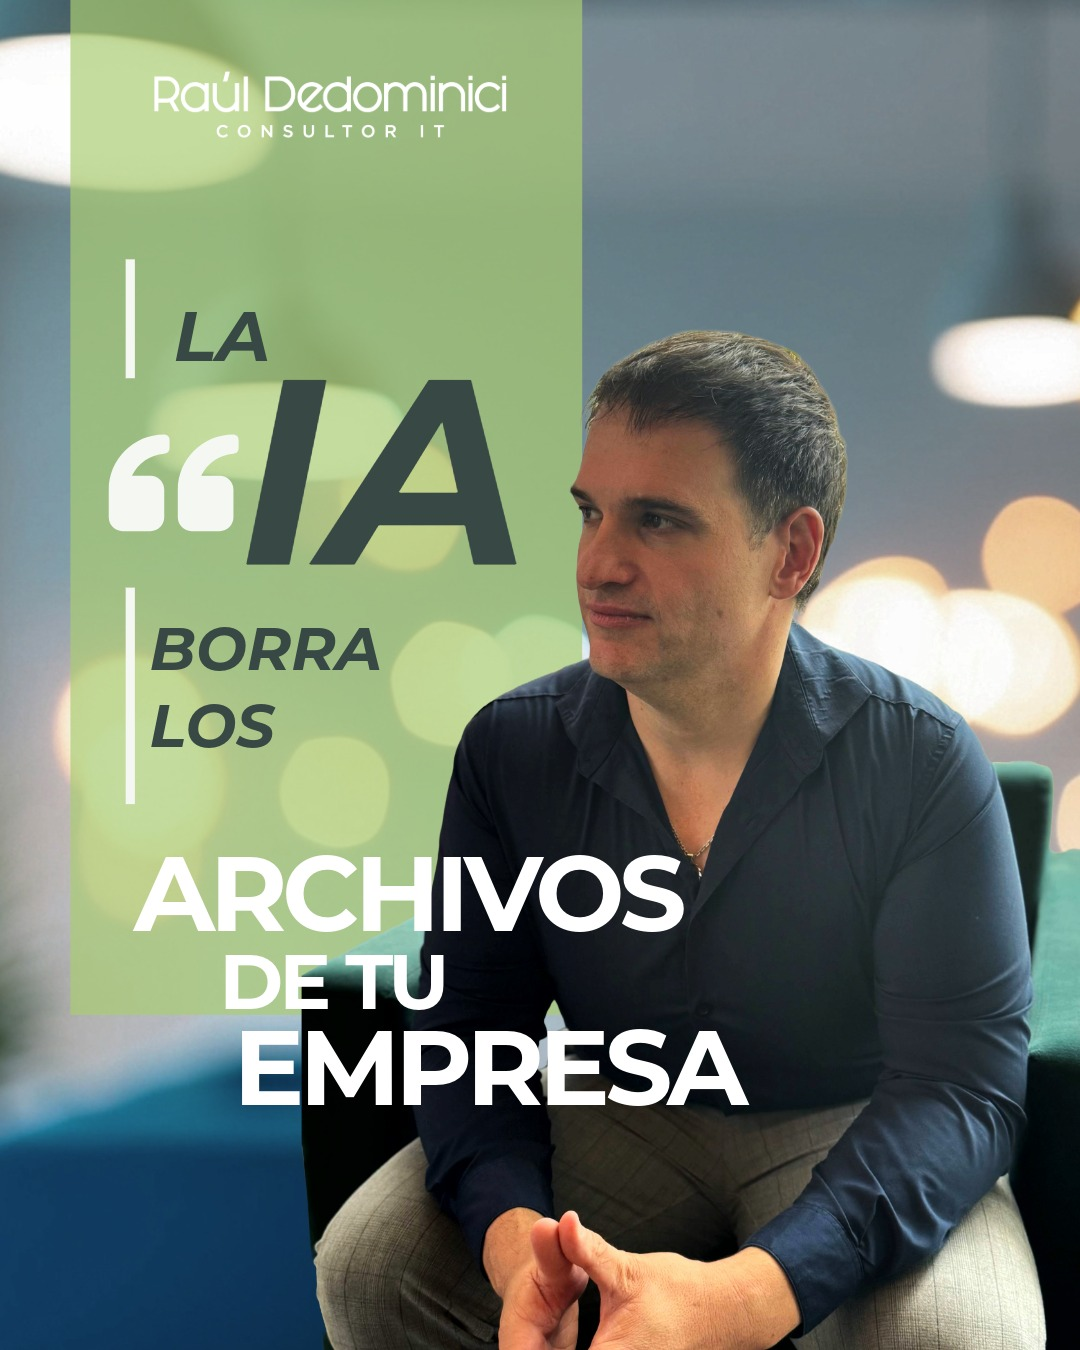
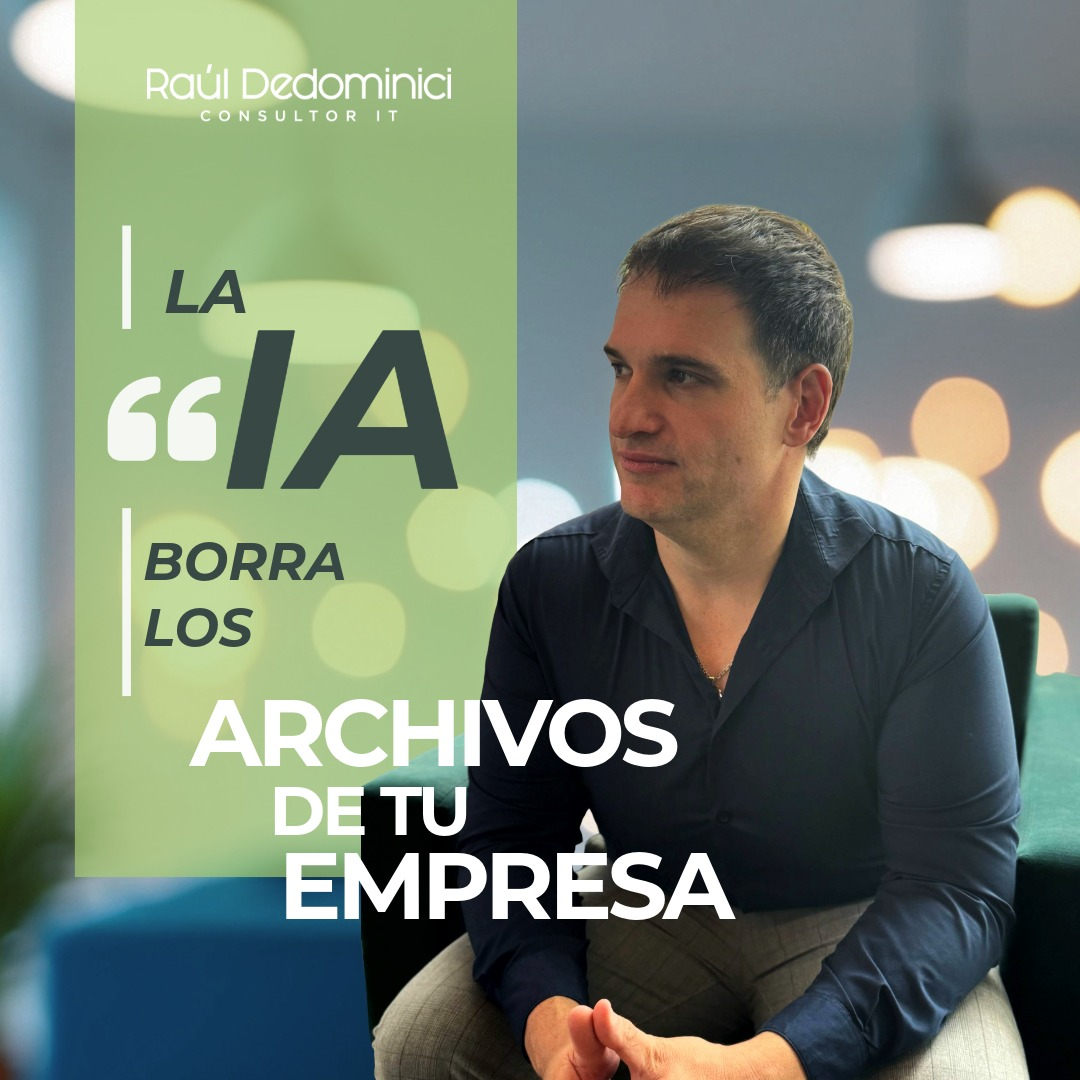
raul2

diff --git a/redes-sociales.html b/redes-sociales.html
@@ -281,7 +281,7 @@ height="0" width="0" style="display:none;visibility:hidden"></iframe></noscript>
       </div>
 
       <div class="w-[300px] h-[350px] rounded-xl overflow-hidden cursor-pointer group relative">
-        <img src="./IMG/portada-raul-jpeg" alt="Campaña Lanzamiento" class="w-full h-full object-cover group-hover:scale-105 transition-transform duration-500">
+        <img src="./IMG/portada-raul.jpeg" alt="Campaña Lanzamiento" class="w-full h-full object-cover group-hover:scale-105 transition-transform duration-500">
       </div>
 
       <div class="w-[300px] h-[350px] rounded-xl overflow-hidden cursor-pointer group relative">
@@ -313,7 +313,7 @@ height="0" width="0" style="display:none;visibility:hidden"></iframe></noscript>
       </div>
 
       <div class="w-[300px] h-[350px] rounded-xl overflow-hidden cursor-pointer group relative">
-        <img src="./IMG/portada-raul-jpeg" alt="Campaña Lanzamiento" class="w-full h-full object-cover group-hover:scale-105 transition-transform duration-500">
+        <img src="./IMG/portada-raul.jpeg" alt="Campaña Lanzamiento" class="w-full h-full object-cover group-hover:scale-105 transition-transform duration-500">
       </div>
 
       <div class="w-[300px] h-[350px] rounded-xl overflow-hidden cursor-pointer group relative">
